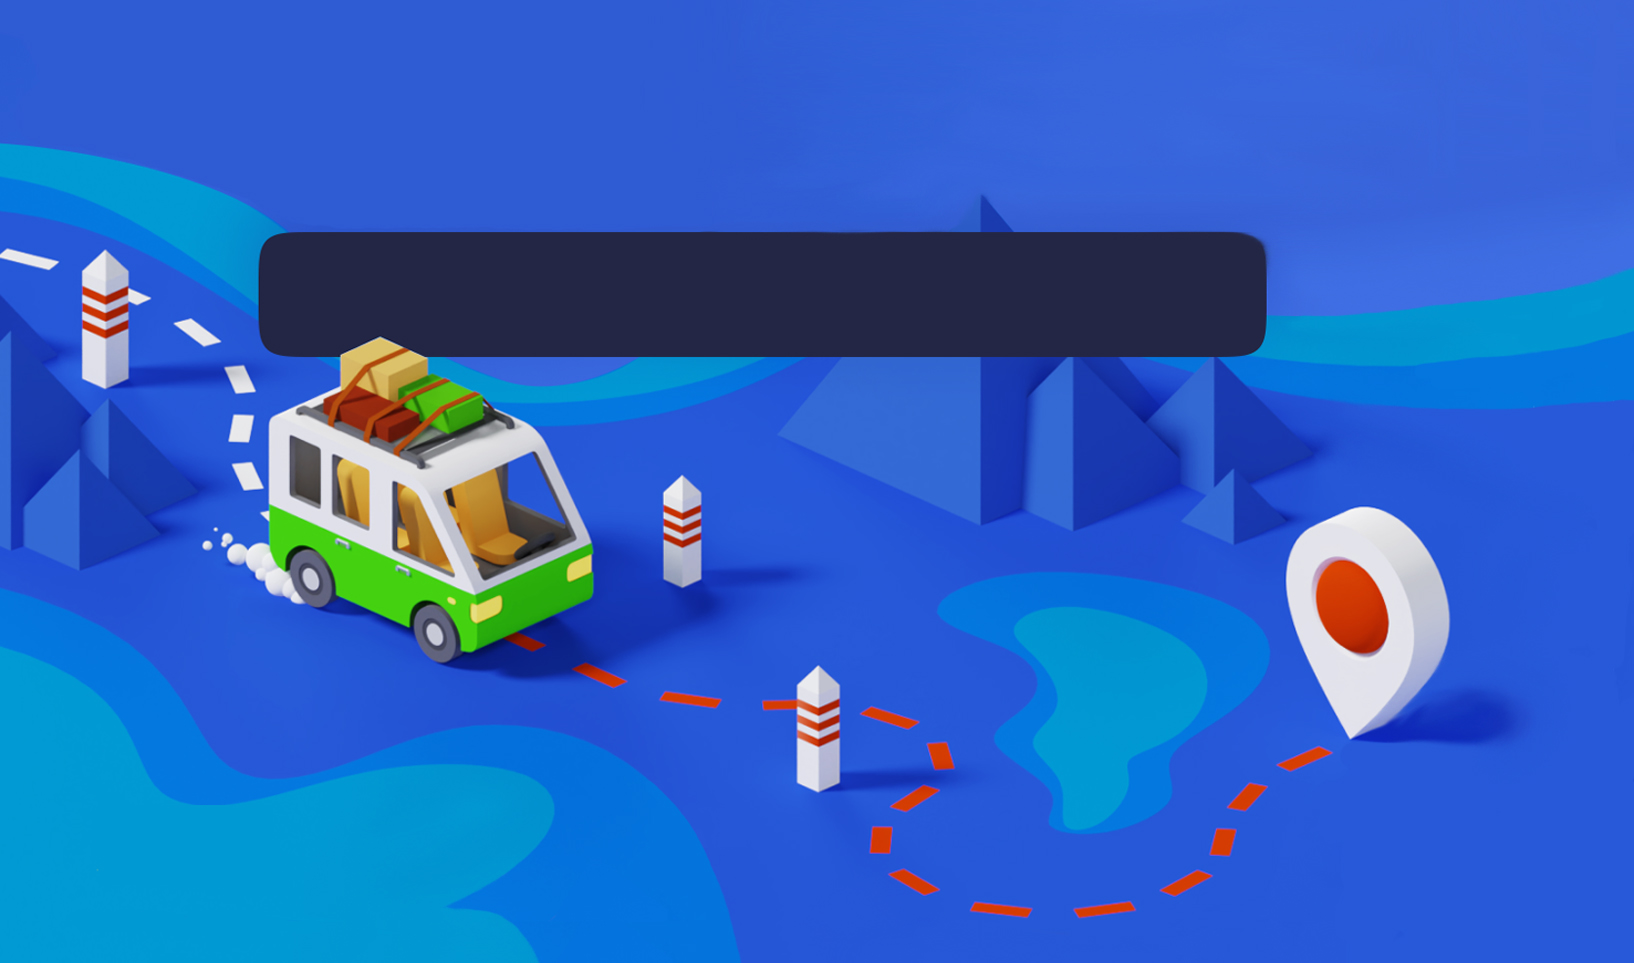
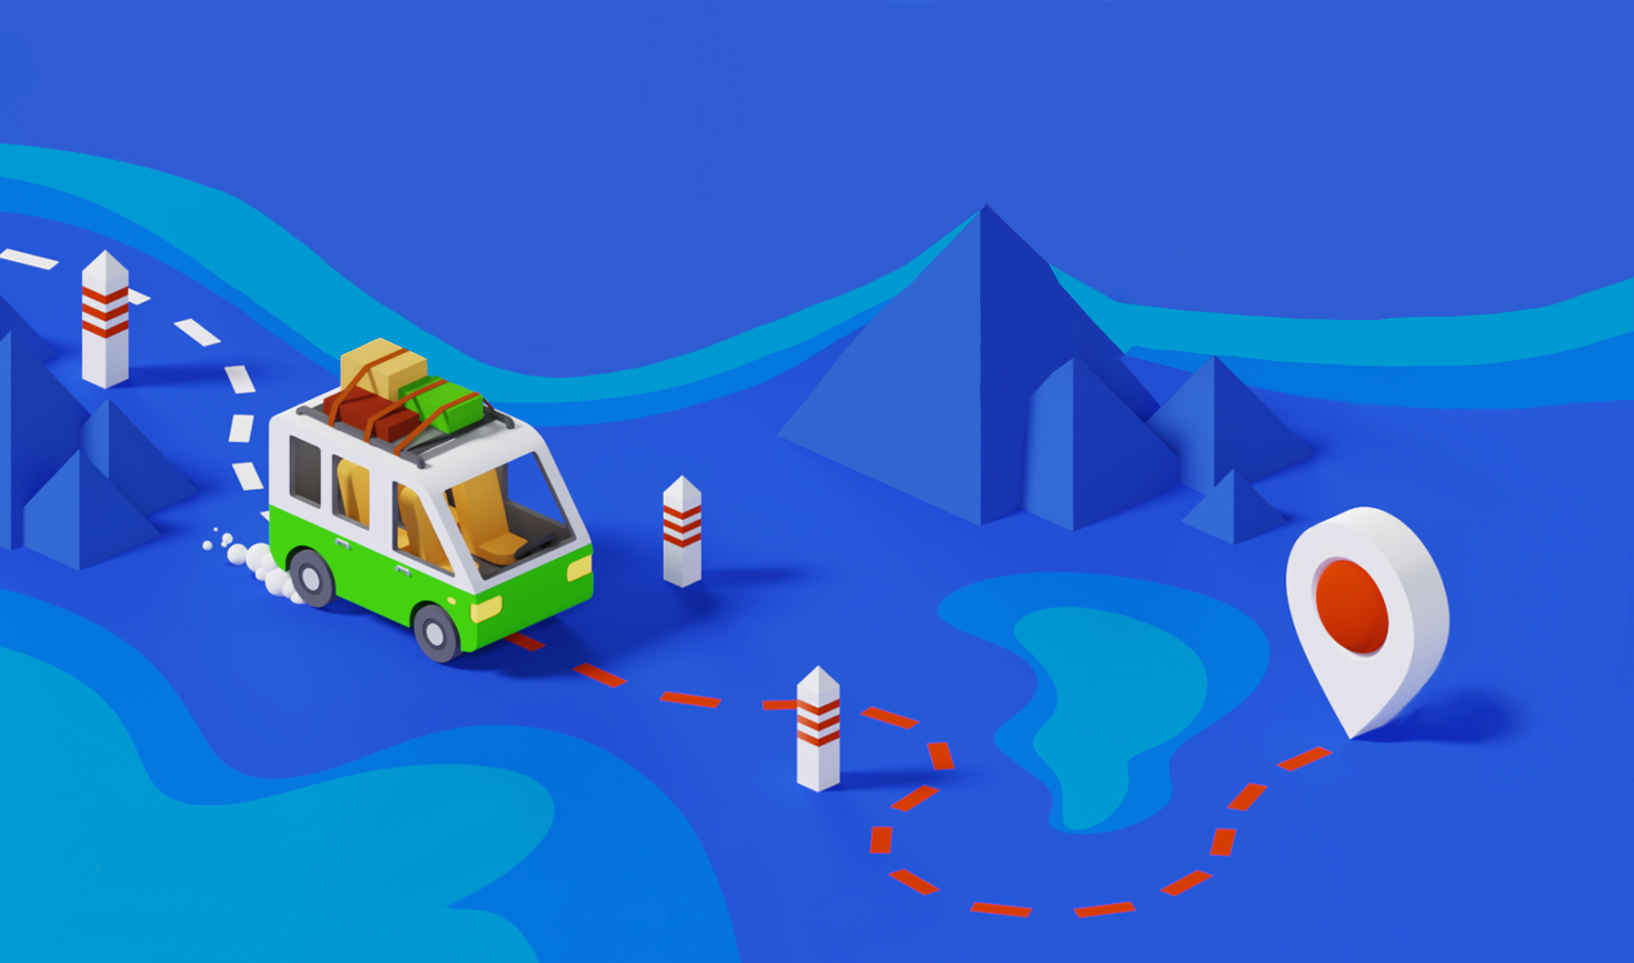
bis

Changed region(s): [[0.1561, 0.2181, 0.7803, 0.405], [0.8115, 0.2804, 1.0, 0.3738], [0.8739, 0.3738, 0.9051, 0.405]]

diff --git a/src/components/MainPage.jsx b/src/components/MainPage.jsx
@@ -1,5 +1,6 @@
 import React from 'react';
 import '../css/MainPage.css';
+import SearchBar from './SearchBar';
 
 const MainPage = () => {
   return (
@@ -9,6 +10,7 @@ const MainPage = () => {
           <h1 className="title_appli">Welcome To Pimp My Ride</h1>
           <h4 className="description_appli"> Prêt(e) à rejoindre la ligue des covoiturés intrépides ? Alors fais ta réservation et embarque avec nous !</h4>
         </div>
+        <SearchBar/>
       </div>
     </div>
   );

diff --git a/src/components/SearchBar.jsx b/src/components/SearchBar.jsx
@@ -1,0 +1,15 @@
+import React from 'react';
+
+const SearchBar = () => {
+    return(
+        <div className="container">
+        <div className="my-3 row">
+          <div className="col-10 offset-1 rounded bg-dark p-3 text-light">
+            <h1>Coucou</h1>
+          </div>
+        </div>
+        </div>
+    )
+}
+
+export default SearchBar;
